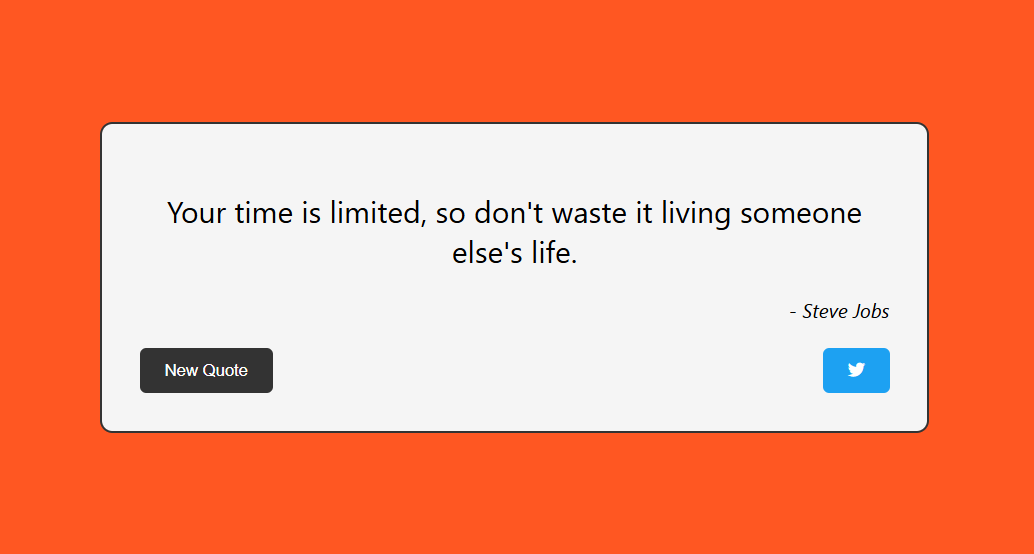
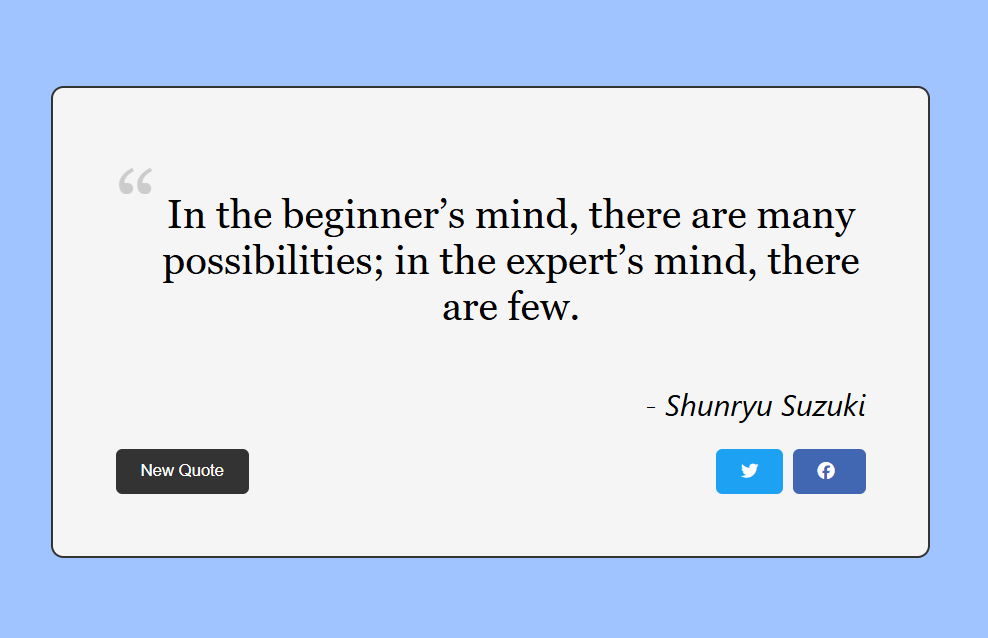
final version

diff --git a/src/components/QuoteMachine.js b/src/components/QuoteMachine.js
@@ -1,73 +1,111 @@
 //A random quote machine in footer
-import React, { useState } from 'react';
+import React, { useState, useEffect, useCallback } from 'react';
 
 // A sample list of quotes. This array can later be replaced by data from an API.
 const quotes = [
-  { text: "The best way to predict the future is to invent it.", author: "Alan Kay" },
-  { text: "Life is 10% what happens to us and 90% how we react to it.", author: "Charles R. Swindoll" },
-  { text: "Your time is limited, so don't waste it living someone else's life.", author: "Steve Jobs" },
-  { text: "The mind is everything. What you think you become.", author: "Buddha" },
+  { text: "Even the greatest was once a beginner. Don’t be afraid to take that first step.", author: "Muhammad Ali" },
+  { text: "Be willing to be a beginner every single morning.", author: "Meister Eckhart" },
+  { text: "The first step towards getting somewhere is to decide you’re not going to stay where you are.", author: "J.P. Morgan" },
+  { text: "The only way to do great work is to love what you do. If you haven't found it yet, keep looking. Don't settle.", author: "Steve Jobs" },
+  { text: "You are never too old to start over. Every day is a chance to make changes to create the life we want.", author: "Karon Waddell" },
+  { text: "Find a job you enjoy doing, and you will never have to work a day in your life.", author: "Chinonye J. Chidolue" },
+  { text: "Success is the sum of small efforts, repeated day-in and day-out.", author: "Robert Collier" },
+  
 ];
 
 function QuoteMachine() {
+  // Returns a random quote and the remaining quotes from the given array.
   function getRandomQuoteAndRemove(array) {
-    const copy = [...array]; // Create a shallow copy of the array
-    const randomIndex = Math.floor(Math.random() * copy.length); // Get a random index
-    const selected = copy[randomIndex]; // Select the quote at that index
-    copy.splice(randomIndex, 1); // Remove the selected quote from the copy
-    return { selected, remaining: copy }; // Return the selected quote and the remaining quotes
+    const copy = [...array];
+    const randomIndex = Math.floor(Math.random() * copy.length);
+    const selected = copy[randomIndex];
+    copy.splice(randomIndex, 1);
+    return { selected, remaining: copy };
   }
 
-  const initial = getRandomQuoteAndRemove(quotes); // Get the first random quote and the remaining quotes
+  // Initialize state with one random quote and the rest in "unusedQuotes"
+  const initial = getRandomQuoteAndRemove(quotes);
   const [currentQuote, setCurrentQuote] = useState(initial.selected);
   const [unusedQuotes, setUnusedQuotes] = useState(initial.remaining);
   const [fade, setFade] = useState(true);
 
-  // Update the quote (currentQuote) when the user clicks the button
-  const handleNewQuote = () => {
+  // Memoized function to update the quote.
+  const handleNewQuote = useCallback(() => {
     // Fade out the text.
     setFade(false);
-
-    // Wait 500ms for the fade-out animation to complete.
     setTimeout(() => {
-      // Use the current unusedQuotes array, or reset to a full copy if all quotes have been used.
-      let availableQuotes = unusedQuotes.length ? unusedQuotes : [...quotes];
+      let availableQuotes;
+      // If there are still unused quotes, pick from them.
+      if (unusedQuotes.length > 0) {
+        availableQuotes = unusedQuotes;
+      } else {
+        // When unusedQuotes is empty, reset the pool.
+        // Filter out the current quote (if possible) to prevent an immediate repeat.
+        availableQuotes = quotes.length > 1 
+          ? quotes.filter(q => q.text !== currentQuote.text) 
+          : [...quotes];
+      }
       const { selected, remaining } = getRandomQuoteAndRemove(availableQuotes);
       setCurrentQuote(selected);
       setUnusedQuotes(remaining);
       // Fade the text back in.
       setFade(true);
-    }, 500); // 500ms delay for the fade-out animation
-  };
+    }, 700); // 500ms delay for fade-out/fade-in transition
+  }, [unusedQuotes, currentQuote]);
 
-  return (
-    // Wrapper element with id="quote-box" (User Story #1)
-    <div className="relative bg-slate-950 w-full p-2 z-50 border-t-4 border-orange-800" id="quote-box-wrapper">
-      <div className="relative bg-slate-950 max-w-7xl w-full justify-center text-center p-1 mx-auto my-1 z-50" id="quote-box">
-        {/* Left side: Quote text and author in one flex row */}
-        <div className="flex items-center space-x-4 overflow-hidden"></div>
+  // Automatically change the quote every 5 seconds.
+  useEffect(() => {
+    const interval = setInterval(() => {
+      handleNewQuote();
+    }, 5000); // Change quote every 5 seconds
+
+    return () => clearInterval(interval);
+  }, [handleNewQuote]);
+
+   return (
+    // Quote Machine wrapper
+    <div
+      id="quote-box-wrapper"
+      className="relative bg-slate-950 w-full p-2 z-50 border-t-4 border-orange-800"
+    >
+      <div
+        id="quote-box"
+        className="relative bg-slate-950 max-w-7xl w-full justify-center text-center p-1 mx-auto my-1 z-50"
+      >
+        {/* Quote text and author */}
+        <div id="quote-text-container" className="flex flex-col items-center overflow-hidden">
           <p
             id="text"
-            className={`text-3xl text-white text-center transition-opacity duration-500 ${fade ? "opacity-100" : "opacity-0"}`}
+            className={`text-xl text-gray-300 text-center transition-opacity duration-500 ${fade ? "opacity-100" : "opacity-0"}`}
           >
+            <span
+              style={{
+                fontFamily: "'Georgia', serif",
+                fontSize: "1.5em",    // Adjust size as needed
+                verticalAlign: "middle",
+                marginRight: "0.3em",
+              }}
+            >
+              “
+            </span>
             {currentQuote.text}
+            <span
+              style={{
+                fontFamily: "'Georgia', serif",
+                fontSize: "1.5em",    // Adjust size for closing quote
+                verticalAlign: "middle",
+                marginLeft: "0.3em",
+              }}
+            >
+              ”
+            </span>
           </p>
-          <p id="author" className="text-right text-white italic">
+          <p id="author" className="text-right text-gray-300 italic">
             - {currentQuote.author}
           </p>
         </div>
-        {/* Right side: New Quote button shown as a reroll icon */}
-        <button
-          id="new-quote"
-          onClick={handleNewQuote}
-          className="bg-gray-800 text-white p-2 rounded-full hover:bg-gray-700 transition-colors"
-        >
-          {/* Reroll / refresh icon (SVG) */}
-          <svg xmlns="http://www.w3.org/2000/svg" className="w-6 h-6" fill="none" viewBox="0 0 24 24" stroke="currentColor">
-            <path strokeLinecap="round" strokeLinejoin="round" strokeWidth={2} d="M4 4v6h6M20 20v-6h-6M4 20l8-8m0 0l8-8" />
-          </svg>
-        </button>
-      </div> 
+      </div>
+    </div>
   );
 }
 

diff --git a/src/components/Header.js b/src/components/Header.js
@@ -46,26 +46,30 @@ const Header = () => {
 
   return (
     <header
-      className={`bg-slate-950 py-6 fixed top-0 w-full z-50 transform transition-transform duration-300 border-b-4 border-orange-800 ${
+      className={`bg-slate-950 py-4 fixed top-0 w-full z-50 transform transition-transform duration-300 border-b-4 border-orange-800 ${
         showHeader ? 'translate-y-0' : '-translate-y-full'
       }`}
     >
       <nav>
-        <ul className="flex justify-center space-x-6 md:space-x-12">
+        <ul className="flex justify-center divide-x divide-cyan-400">
           {navLinks.map(({ href, label }) => (
             <li key={href}>
               {/* For internal anchor links, use the smooth scroll behavior */}
               {href.startsWith("/") ? (
-                <Link className="text-xs md:text-base text-white hover:text-gray-300" to={href}>
-                  {label}
+                <Link to={href} className="text-white hover:text-gray-300">
+                  <span className="inline-block px-4 py-2 text-sm md:text-base lg:text-md xl:text-lg">
+                    {label}
+                  </span>
                 </Link>
               ) : (
                 <a
                   href={href}
                   onClick={(e) => handleNavClick(e, href)}
-                  className="text-xs md:text-base text-white hover:text-gray-300"
+                  className="text-cyan-100 hover:text-gray-300"
                 >
-                  {label}
+                  <span className='inline-block px-2 xl:px-12 py-2 text-sm md:text-base lg:text-md xl:text-lg'>
+                    {label}
+                  </span>
                 </a>
               )}
             </li>

diff --git a/src/components/Certificates.js b/src/components/Certificates.js
@@ -57,9 +57,9 @@ const Certificates = () => {
     <section id="certificates" className="pb-16 pt-8 bg-gradient-to-b from-royal-indigo to-indigo-950">
       <div className="container mx-auto">
         {/* Divider at the very top */}
-        <hr className="border-t-2 border-gray-300 mb-14" />
+        <hr className="border-t-2 border-cyan-300 mb-14" />
 
-        <h2 className="text-3xl font-bold text-center mb-6">Certificates</h2>
+        <h2 className="text-3xl text-cyan-200 text-center mb-6">Certificates</h2>
 
         {/* Grid with 2 rows and 2 columns on larger screens */}
         <div className="grid grid-cols-1 lg:grid-cols-2 text-xl gap-8">
@@ -72,7 +72,7 @@ const Certificates = () => {
 
             return (
               <div key={index}>
-                <h3 className="font-bold mb-1">{categoryObj.category}</h3>
+                <h3 className="font-bold mb-1 text-cyan-100">{categoryObj.category}</h3>
                 <div className={`w-full text-sm grid ${gridColsClasses} gap-4`}>
                   {categoryObj.certificates.map((cert, idx) => (
                     <CertificateCard certificate={cert} key={idx} />
@@ -85,7 +85,7 @@ const Certificates = () => {
           {/* Row 2: React + Node.js */}
           {certificateCategories.row2.map((categoryObj, index) => (
             <div key={index}>
-              <h3 className="font-bold mb-1">{categoryObj.category}</h3>
+              <h3 className="font-bold mb-1 text-cyan-100">{categoryObj.category}</h3>
               <div className="w-fit text-sm grid grid-cols-1 gap-6">
                 {categoryObj.certificates.map((cert, idx) => (
                   <CertificateCard certificate={cert} key={idx} />

diff --git a/src/components/Contact.js b/src/components/Contact.js
@@ -5,7 +5,7 @@ import { SiGmail } from 'react-icons/si';
 const Contact = () => (
   <section id="contact" className="py-16 bg-gradient-to-b from-slate-900 to-slate-950">
     <div className="mx-auto mx-14 px-8 sm:mx-14 sm:px-8 md:mx-24 md:px-12 lg:mx-30 lg:px-16 xl:mx-36 xl:px-20">
-      <h2 className="text-3xl font-bold text-center mb-8">Contact Me</h2>
+      <h2 className="text-3xl text-cyan-200 text-center mb-8">Contact Me</h2>
       {/* Parent container ensures inline layout but wraps when needed */}
       <div className="w-full flex flex-wrap justify-center gap-8">
         
@@ -16,7 +16,7 @@ const Contact = () => (
             href="https://m.me/SyanTorres" 
             target="_blank" 
             rel="noopener noreferrer"
-            className="text-1.5xl text-gray-700 hover:text-blue-600"
+            className="text-xl text-cyan-100 hover:text-cyan-400"
           >
             Chat with me on Messenger!
           </a>
@@ -29,7 +29,7 @@ const Contact = () => (
             href="mailto:torressyanvale@gmail.com" 
             target="_blank" 
             rel="noopener noreferrer"
-            className="text-1.5xl text-gray-700 hover:text-blue-600"
+            className="text-xl text-cyan-100 hover:text-cyan-400"
           >
             Email @ torressyanvale@gmail.com
           </a>
@@ -42,7 +42,7 @@ const Contact = () => (
             href="tel:+639298172574"
             target="_blank"
             rel="noopener noreferrer" 
-            className="text-1.5xl text-gray-700 hover:text-blue-600"
+            className="text-xl text-cyan-100 hover:text-cyan-400"
           >
             +63 929 817 2574
           </a>

diff --git a/src/components/Skills.js b/src/components/Skills.js
@@ -12,18 +12,20 @@ const skills = [
 const Skills = () => (
   <section id="skills" className="py-2 bg-blue-950">
     <div className="max-w-3xl mx-auto px-4">
-      <h2 className="text-3xl font-bold text-center mb-4">Skills</h2>
+      <h2 className="text-3xl text-cyan-200 text-center mt-8 tracking-wider">Skills</h2>
     </div>
 
-    <div className="max-w-3xl mx-auto px-4 bg-gradient-to-r from-gray-300 to-gray-100 py-8 rounded-3xl">
-      <div className="md:mx-2 md:px-2 lg:mx-4 lg:px-4 xl:mx-6 xl:px-6">
-        <ul className="flex flex-wrap justify-center gap-8">
-          {skills.map((skill) => (
-            <li key={skill} className="px-4 bg-blue-500 text-white rounded">
-              {skill}
-            </li>
-          ))}
-        </ul>
+    <div className="max-w-full mx-auto py-2 pb-6 rounded-3xl">
+      <div className="bg-gradient-to-b from-indigo-950/5 via-slate-950/50 to-indigo-950/5 rounded-3xl p-8">
+        <div className="md:mx-2 md:px-2 lg:mx-4 lg:px-4 xl:mx-6 xl:px-6">
+          <ul className="flex flex-wrap justify-center gap-12">
+            {skills.map((skill) => (
+              <li key={skill} className=" py-2 px-6 rounded-3xl p-8 bg-[radial-gradient(circle,_rgba(30,64,175)_0%,_rgba(30,64,175,0.2)_100%)] text-cyan-100 rounded-xl text-2xl">
+                {skill}
+              </li>
+            ))}
+          </ul>
+        </div>
       </div>
     </div>
   </section>

diff --git a/src/components/Resume.js b/src/components/Resume.js
@@ -2,21 +2,21 @@ import React from 'react';
 
 const Resume = () => (
   <section id="resume" className="py-8 bg-gradient-to-b from-indigo-950 to-slate-900">
-    <div className="max-w-5xl mx-auto px-8 text-center">
-      <h2 className="text-3xl font-bold mb-4 text-white">Resume</h2>
-      <p className="text-lg text-gray-300">
-        Check out and download my detailed resume.
-      </p>
+    <div className="max-w-2xl mx-auto px-2 py-4 text-center border-4 border-orange-700 rounded-full">
+      <h2 className="text-3xl text-cyan-200 mb-6 pb-4 text-white">Resume</h2>
       <div className="mt-4">
         <a
           href="/certificates/Torres-Syan-CV.pdf" 
           target="_blank"
           rel="noopener noreferrer"
-          className="px-6 py-3 bg-blue-600 text-white rounded hover:bg-blue-700 transition-colors"
+          className="px-8 py-4 bg-blue-600 text-white rounded-xl hover:bg-blue-700 transition-colors"
         >
-          Download Resume PDF
+          DOWNLOAD RESUME
         </a>
       </div>
+      <p className="text-lg text-cyan-100 py-3">
+        Check out and download my detailed resume.
+      </p>
     </div>
   </section>
 );

diff --git a/src/components/Hero.js b/src/components/Hero.js
@@ -4,14 +4,14 @@ const Hero = () => (
   <section id="hero" className="bg-gradient-to-b from-pale-dark-blue to-blue-900 pt-36 pb-8 text-center">
     <div className="mx-auto text-center mx-14 px-8 sm:mx-14 sm:px-8 md:mx-24 md:px-12 lg:mx-30 lg:px-16 xl:mx-36 xl:px-20">
       <h1 className="text-4xl font-normal text-white" style={{ fontFamily: "'Poppins', serif" }}>Hello, I'm{" "}
-        <span className="text-indigo-300 font-bold" style={{ fontFamily: "'Poppins', serif" }}>Syan</span>
+        <span className="text-cyan-500 font-bold" style={{ fontFamily: "'Poppins', serif" }}>Syan</span>
       </h1>
       <p className="mt-4 text-2xl text-gray-200"> 
         <strong>Architect</strong> turned aspiring <strong>Web Developer</strong> <br /> <br />
         – Just beginning my journey in coding, learning every day, and excited to build innovative digital experiences.</p>
     </div>
      {/* Divider at the very top */}
-    <hr className="border-t-2 border-gray-300 mt-20" />
+    <hr className="border-t-2 border-cyan-300 mt-20" />
 
   </section>
 );

diff --git a/src/components/CircleNavigator.js b/src/components/CircleNavigator.js
@@ -7,8 +7,8 @@ const CircleNavigator = () => {
   const [smoothPos, setSmoothPos] = useState(0);
 
   // Static vertical range in vh units
-  const minPos = 53; // Starting position (38vh)
-  const maxPos = 62; // Ending position (74vh)
+  const minPos = 56; // Starting position (38vh)
+  const maxPos = 69; // Ending position (74vh)
 
   // Fixed scroll range (in pixels) that maps 0 to 1 for scroll percentage.
   const fixedScrollRange = 400; // Adjust this value to fit your scroll range
@@ -55,7 +55,7 @@ const CircleNavigator = () => {
       <div className="absolute left-1/2 transform -translate-x-1/2 h-full w-1"></div>
       {/* Circle indicator (centered horizontally) */}
       <div
-        className="absolute left-1/2 transform -translate-x-1/2 w-3 h-6 bg-gray-400 rounded-full smokey-ball"
+        className="absolute left-1/2 transform -translate-x-1/2 w-3 h-10 bg-cyan-200 rounded-full smokey-ball"
         style={{ top: `${computedTop}vh` }}
       ></div>
     </div>

diff --git a/src/components/About.js b/src/components/About.js
@@ -3,8 +3,8 @@ import React from 'react';
 const About = () => (
   <section id="about" className="py-8 bg-gradient-to-b from-blue-900 to-blue-950">
     <div className="relative z-20 mx-14 px-8 sm:mx-14 sm:px-8 md:mx-24 md:px-12 lg:mx-30 lg:px-16 xl:mx-36 xl:px-20" >
-      <h2 className="text-3xl text-white font-bold mb-4">About Me</h2>
-      <p className="text-xl text-white">
+      <h2 className="text-3xl text-cyan-200 mb-4">About Me</h2>
+      <p className="text-2xl text-gray-200">
         I am a licensed architect with years of experience in design and construction.
         Now, I am channeling the same passion for creativity and problem solving into software development.<br />
         My goal is to combine my design expertise with modern code to build innovative digital solutions.

diff --git a/src/components/Projects.js b/src/components/Projects.js
@@ -52,7 +52,7 @@ const Projects = () => {
   return (
     <section id="projects" className="py-16 bg-gradient-to-b from-blue-950 to-royal-indigo">
       <div className="text-center mx-auto  mx-14 px-8 sm:mx-14 sm:px-8  md:mx-24 md:px-12 lg:mx-30 lg:px-16 xl:mx-36 xl:px-20">
-        <h2 className="text-3xl font-bold text-center mx-auto mb-6 </div>">Projects</h2>
+        <h2 className="text-3xl text-cyan-200 text-center mx-auto mb-6 </div>">Projects</h2>
         <div className="grid grid-cols-1 sm:grid-cols-2 lg:grid-cols-3 xl:grid-cols-4 gap-6">
           {projects.map((project) => (
             <div key={project.id} className="pb-16">
